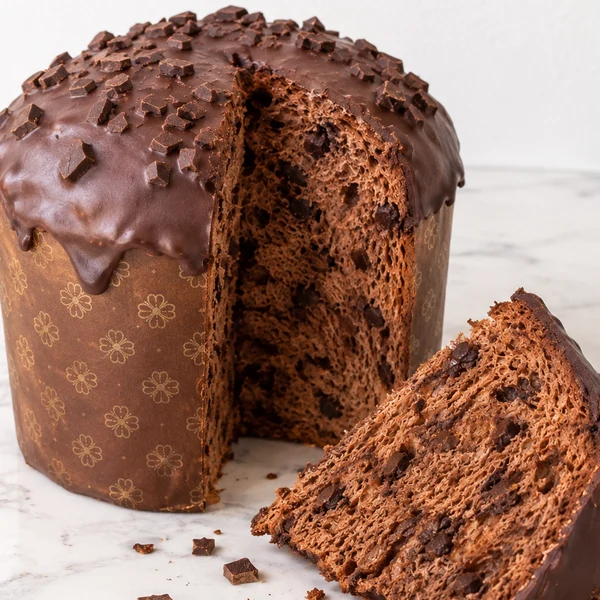
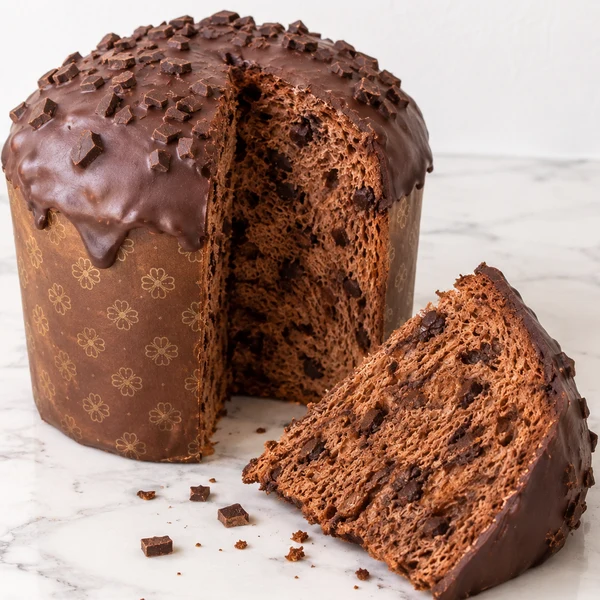
Pan dulce de chocolate recentrado con margen superior; foto de pistachos bañados en chocolate
Claude-Session: https://claude.ai/code/session_01C6bfWHa45MuNYMQfMCjhxp

diff --git a/index.html b/index.html
@@ -927,7 +927,7 @@ const bizcochuelos=[{"id": "bc-vainilla", "category": "bizcochuelos", "name": "B
 const chipas=[{"id": "ch-clasica-200", "category": "chipa", "name": "Chipa · 200 g", "price": 6000, "desc": "Presentación de 200 gramos.", "image": "assets/chipa-cuadrada-v16-s.webp"}];
 const prepizzas=[{id:'pp-24',category:'pizza',badge:'Promo',name:'Prepizza · 24 cm',price:6000,tiers:{2:5000},desc:'Lista para que le pongas lo que quieras.',image:'assets/prepizza-foto.webp'},{id:'pz-jyq',category:'pizza',badge:'Promo',name:'Pizza de jamón y queso',price:12000,tiers:{2:10000},desc:'Jamón y muzzarella.',image:'assets/pizza-jyq-foto.webp'}];
 const pandulce=[{id:'pd-chips',category:'pandulce',name:'Pan dulce con chips de chocolate',soon:true,desc:'Chips de chocolate adentro y por arriba.',image:'assets/pandulce-chocolate-tres.webp'},{id:'pd-chocolate',category:'pandulce',name:'Pan dulce de chocolate',soon:true,desc:'Masa de cacao amargo, chips de chocolate adentro y bañado en chocolate por arriba.',image:'assets/pandulce-chocolate-entero.webp'},{id:'pd-frutos-secos',category:'pandulce',name:'Pan dulce de frutos secos',soon:true,desc:'Harina de almendras, relleno de frutos secos y glaseado con frutos secos por arriba.',image:'assets/pan-dulce.webp'},{id:'pd-frutos-chocolate',category:'pandulce',name:'Pan dulce de frutos secos y chocolate',soon:true,desc:'Frutos secos y chocolate.',image:'assets/pandulce-frutos-chocolate.webp'}];
-const navidad=[{id:'n-garrapinada-mani',category:'navidad',name:'Garrapiñada de maní',price:10000,desc:'Por kilo.',image:'assets/navidad-garrapinada-mani.webp'},{id:'n-garrapinada-nuez',category:'navidad',name:'Garrapiñada de nuez',price:40000,desc:'Por kilo.',image:'assets/navidad-garrapinada-nuez.webp'},{id:'n-mani-chocolate',category:'navidad',name:'Maní bañado en chocolate',price:20000,desc:'Por kilo.',image:'assets/navidad-mani-chocolate.webp'},{id:'n-rocklets',category:'navidad',name:'Rocklets',price:25000,desc:'Por kilo.',image:'assets/navidad-rocklets.webp'},{id:'n-marroc',category:'navidad',name:'Marroc en cubitos',price:35000,desc:'Por kilo.',image:'assets/navidad-marroc.webp'},{id:'n-garrapinada-almendras',category:'navidad',name:'Garrapiñada de almendras',price:35000,desc:'Por kilo.',image:'assets/navidad-garrapinada-almendras.webp'},{id:'n-pasas-chocolate',category:'navidad',name:'Pasas de uva bañadas en chocolate',price:40000,desc:'Por kilo.',image:'assets/navidad-pasas-chocolate.webp'},{id:'n-almendras-chocolate',category:'navidad',name:'Almendras bañadas en chocolate',price:45000,desc:'Por kilo.',image:'assets/navidad-almendras-chocolate.webp'},{id:'n-arandanos-chocolate',category:'navidad',name:'Arándanos bañados en chocolate',price:45000,desc:'Por kilo.',image:'assets/navidad-arandanos-chocolate.webp'},{id:'n-bocaditos-ddl',category:'navidad',name:'Bocaditos de chocolate rellenos con dulce de leche',price:50000,desc:'Por kilo.',image:'assets/navidad-bocaditos-ddl.webp'},{id:'n-avellanas-chocolate',category:'navidad',name:'Avellanas bañadas en chocolate',price:55000,desc:'Por kilo.',image:'assets/navidad-avellanas-chocolate.webp'},{id:'n-pistachos-chocolate',category:'navidad',name:'Pistachos bañados en chocolate semiamargo',price:120000,desc:'Por kilo.',image:'assets/navidad-pistachos.webp'}];
+const navidad=[{id:'n-garrapinada-mani',category:'navidad',name:'Garrapiñada de maní',price:10000,desc:'Por kilo.',image:'assets/navidad-garrapinada-mani.webp'},{id:'n-garrapinada-nuez',category:'navidad',name:'Garrapiñada de nuez',price:40000,desc:'Por kilo.',image:'assets/navidad-garrapinada-nuez.webp'},{id:'n-mani-chocolate',category:'navidad',name:'Maní bañado en chocolate',price:20000,desc:'Por kilo.',image:'assets/navidad-mani-chocolate.webp'},{id:'n-rocklets',category:'navidad',name:'Rocklets',price:25000,desc:'Por kilo.',image:'assets/navidad-rocklets.webp'},{id:'n-marroc',category:'navidad',name:'Marroc en cubitos',price:35000,desc:'Por kilo.',image:'assets/navidad-marroc.webp'},{id:'n-garrapinada-almendras',category:'navidad',name:'Garrapiñada de almendras',price:35000,desc:'Por kilo.',image:'assets/navidad-garrapinada-almendras.webp'},{id:'n-pasas-chocolate',category:'navidad',name:'Pasas de uva bañadas en chocolate',price:40000,desc:'Por kilo.',image:'assets/navidad-pasas-chocolate.webp'},{id:'n-almendras-chocolate',category:'navidad',name:'Almendras bañadas en chocolate',price:45000,desc:'Por kilo.',image:'assets/navidad-almendras-chocolate.webp'},{id:'n-arandanos-chocolate',category:'navidad',name:'Arándanos bañados en chocolate',price:45000,desc:'Por kilo.',image:'assets/navidad-arandanos-chocolate.webp'},{id:'n-bocaditos-ddl',category:'navidad',name:'Bocaditos de chocolate rellenos con dulce de leche',price:50000,desc:'Por kilo.',image:'assets/navidad-bocaditos-ddl.webp'},{id:'n-avellanas-chocolate',category:'navidad',name:'Avellanas bañadas en chocolate',price:55000,desc:'Por kilo.',image:'assets/navidad-avellanas-chocolate.webp'},{id:'n-pistachos-chocolate',category:'navidad',name:'Pistachos bañados en chocolate semiamargo',price:120000,desc:'Por kilo.',image:'assets/navidad-pistachos-chocolate.webp'}];
 const panes=[{id:'p-almendras',category:'pan',badge:'Nuevo',name:'Pan de almendras',price:15000,desc:'Con almendras enteras.',image:'assets/pan-almendras-dos.webp'},{id:'p-coco',category:'pan',badge:'Nuevo',name:'Pan de coco',price:16000,desc:'Con coco en escamas.',image:'assets/pan-coco-dos.webp'}];
 const supplements=[{"id": "s-ena-100whey-900-vainilla", "group": "ena-100whey-900", "category": "proteinas", "name": "Proteína ENA 100% Whey · 900 g · Vainilla", "price": 80000, "available": true, "desc": "100% Whey Protein · 900 g", "image": "assets/ena-100whey-vainilla-900-limpia.webp", "flavor": "Vainilla", "weight": "900 g", "brand": "ENA"}, {"id": "s-ena-whey-930-vainilla", "group": "ena-whey-930", "category": "proteinas", "name": "Proteína ENA Truemade · 930 g · Vainilla", "price": 95000, "available": true, "desc": "Whey Protein · 930 g", "image": "assets/supp-whey-1-limpia.webp", "flavor": "Vainilla", "weight": "930 g", "brand": "ENA"}, {"id": "s-ena-whey-930-chocolate", "group": "ena-whey-930", "category": "proteinas", "name": "Proteína ENA Truemade · 930 g · Chocolate", "price": 95000, "available": true, "desc": "Whey Protein · 930 g", "image": "assets/supp-whey-4-limpia.webp", "flavor": "Chocolate", "weight": "930 g", "brand": "ENA"}, {"id": "s-ena-whey-930-frutilla", "group": "ena-whey-930", "category": "proteinas", "name": "Proteína ENA Truemade · 930 g · Frutilla", "price": 95000, "available": true, "desc": "Whey Protein · 930 g", "image": "assets/supp-whey-7-limpia.webp", "flavor": "Frutilla", "weight": "930 g", "brand": "ENA"}, {"id": "s-ena-whey-930-cookies-cream", "group": "ena-whey-930", "category": "proteinas", "name": "Proteína ENA Truemade · 930 g · Cookies & Cream", "price": 95000, "available": true, "desc": "Whey Protein · 930 g", "image": "assets/supp-whey-9-limpia.webp", "flavor": "Cookies & Cream", "weight": "930 g", "brand": "ENA"}, {"id": "s-ena-whey-930-banana", "group": "ena-whey-930", "category": "proteinas", "name": "Proteína ENA Truemade · 930 g · Banana", "price": 95000, "available": true, "desc": "Whey Protein · 930 g", "image": "assets/supp-whey-11-limpia.webp", "flavor": "Banana", "weight": "930 g", "brand": "ENA"}, {"id": "s-ena-creatina-300-sin-sabor", "group": "ena-creatina-300", "category": "creatina", "name": "Creatina ENA · 300 g · Sin sabor", "price": 30000, "available": true, "desc": "Creatina monohidrato · 300 g", "image": "assets/supp-creatine-0-limpia.webp", "flavor": "Sin sabor", "weight": "300 g", "brand": "ENA"}, {"id": "s-ena-creatina-300-fruit-punch", "group": "ena-creatina-300", "category": "creatina", "name": "Creatina ENA · 300 g · Fruit Punch", "price": 30000, "available": true, "desc": "Creatina monohidrato · 300 g", "image": "assets/supp-creatine-1-limpia.webp", "flavor": "Fruit Punch", "weight": "300 g", "brand": "ENA"}, {"id": "s-ena-creatina-1000-sin-sabor", "group": "ena-creatina-1000", "category": "creatina", "name": "Creatina ENA · 1 kg · Sin sabor", "price": 80000, "available": true, "desc": "Creatina monohidrato · 1 kg", "image": "assets/supp-creatine-4-limpia.webp", "flavor": "Sin sabor", "weight": "1 kg", "brand": "ENA"}, {"id": "s-natier-creatina-300-sin-sabor", "group": "natier-creatina-300", "category": "creatina", "name": "Creatina Natier · 300 g · Sin sabor", "price": 30000, "available": true, "desc": "Creatina monohidratada micronizada · 300 g", "image": "assets/supp-natier-300-limpia.webp", "flavor": "Sin sabor", "weight": "300 g", "brand": "Natier"}, {"id": "s-ena-prewar-400-fruit-punch", "group": "ena-prewar-400", "category": "preentrenos", "name": "Preentreno ENA Pre War · 400 g · Fruit Punch", "price": 35000, "available": true, "desc": "Pre War · Preentreno · 400 g", "image": "assets/prewar-fruit-punch-limpia.webp", "flavor": "Fruit Punch", "weight": "400 g", "brand": "ENA"}, {"id": "s-ena-creatina-electrolitos-302-pink", "group": "ena-creatina-electrolitos-302", "category": "creatina", "name": "Creatina ENA + Electrolitos · 302 g · Pink Lemonade", "price": 30000, "available": true, "desc": "Creatina con electrolitos · 302 g", "image": "assets/creatina-electrolitos-pink-limpia.webp", "flavor": "Pink Lemonade", "weight": "302 g", "brand": "ENA"}];
 const all=[...supplements,...budines,...alfajores,...bizcochuelos,...chipas,...prepizzas,...navidad,...pandulce,...panes,...yerbas,...coffees];try{const mixes=JSON.parse(localStorage.getItem('punto-sano-granola-mixes')||'[]');for(const p of mixes)if(/^[gm]-(\d+-)*\d+$/.test(p.id)&&typeof p.price==='number'&&p.price>0){if(p.category==='mix'&&p.id.slice(2).split('-').length===6){p.previousId=p.id;p.id+='-0'}all.push(p)}}catch{}
